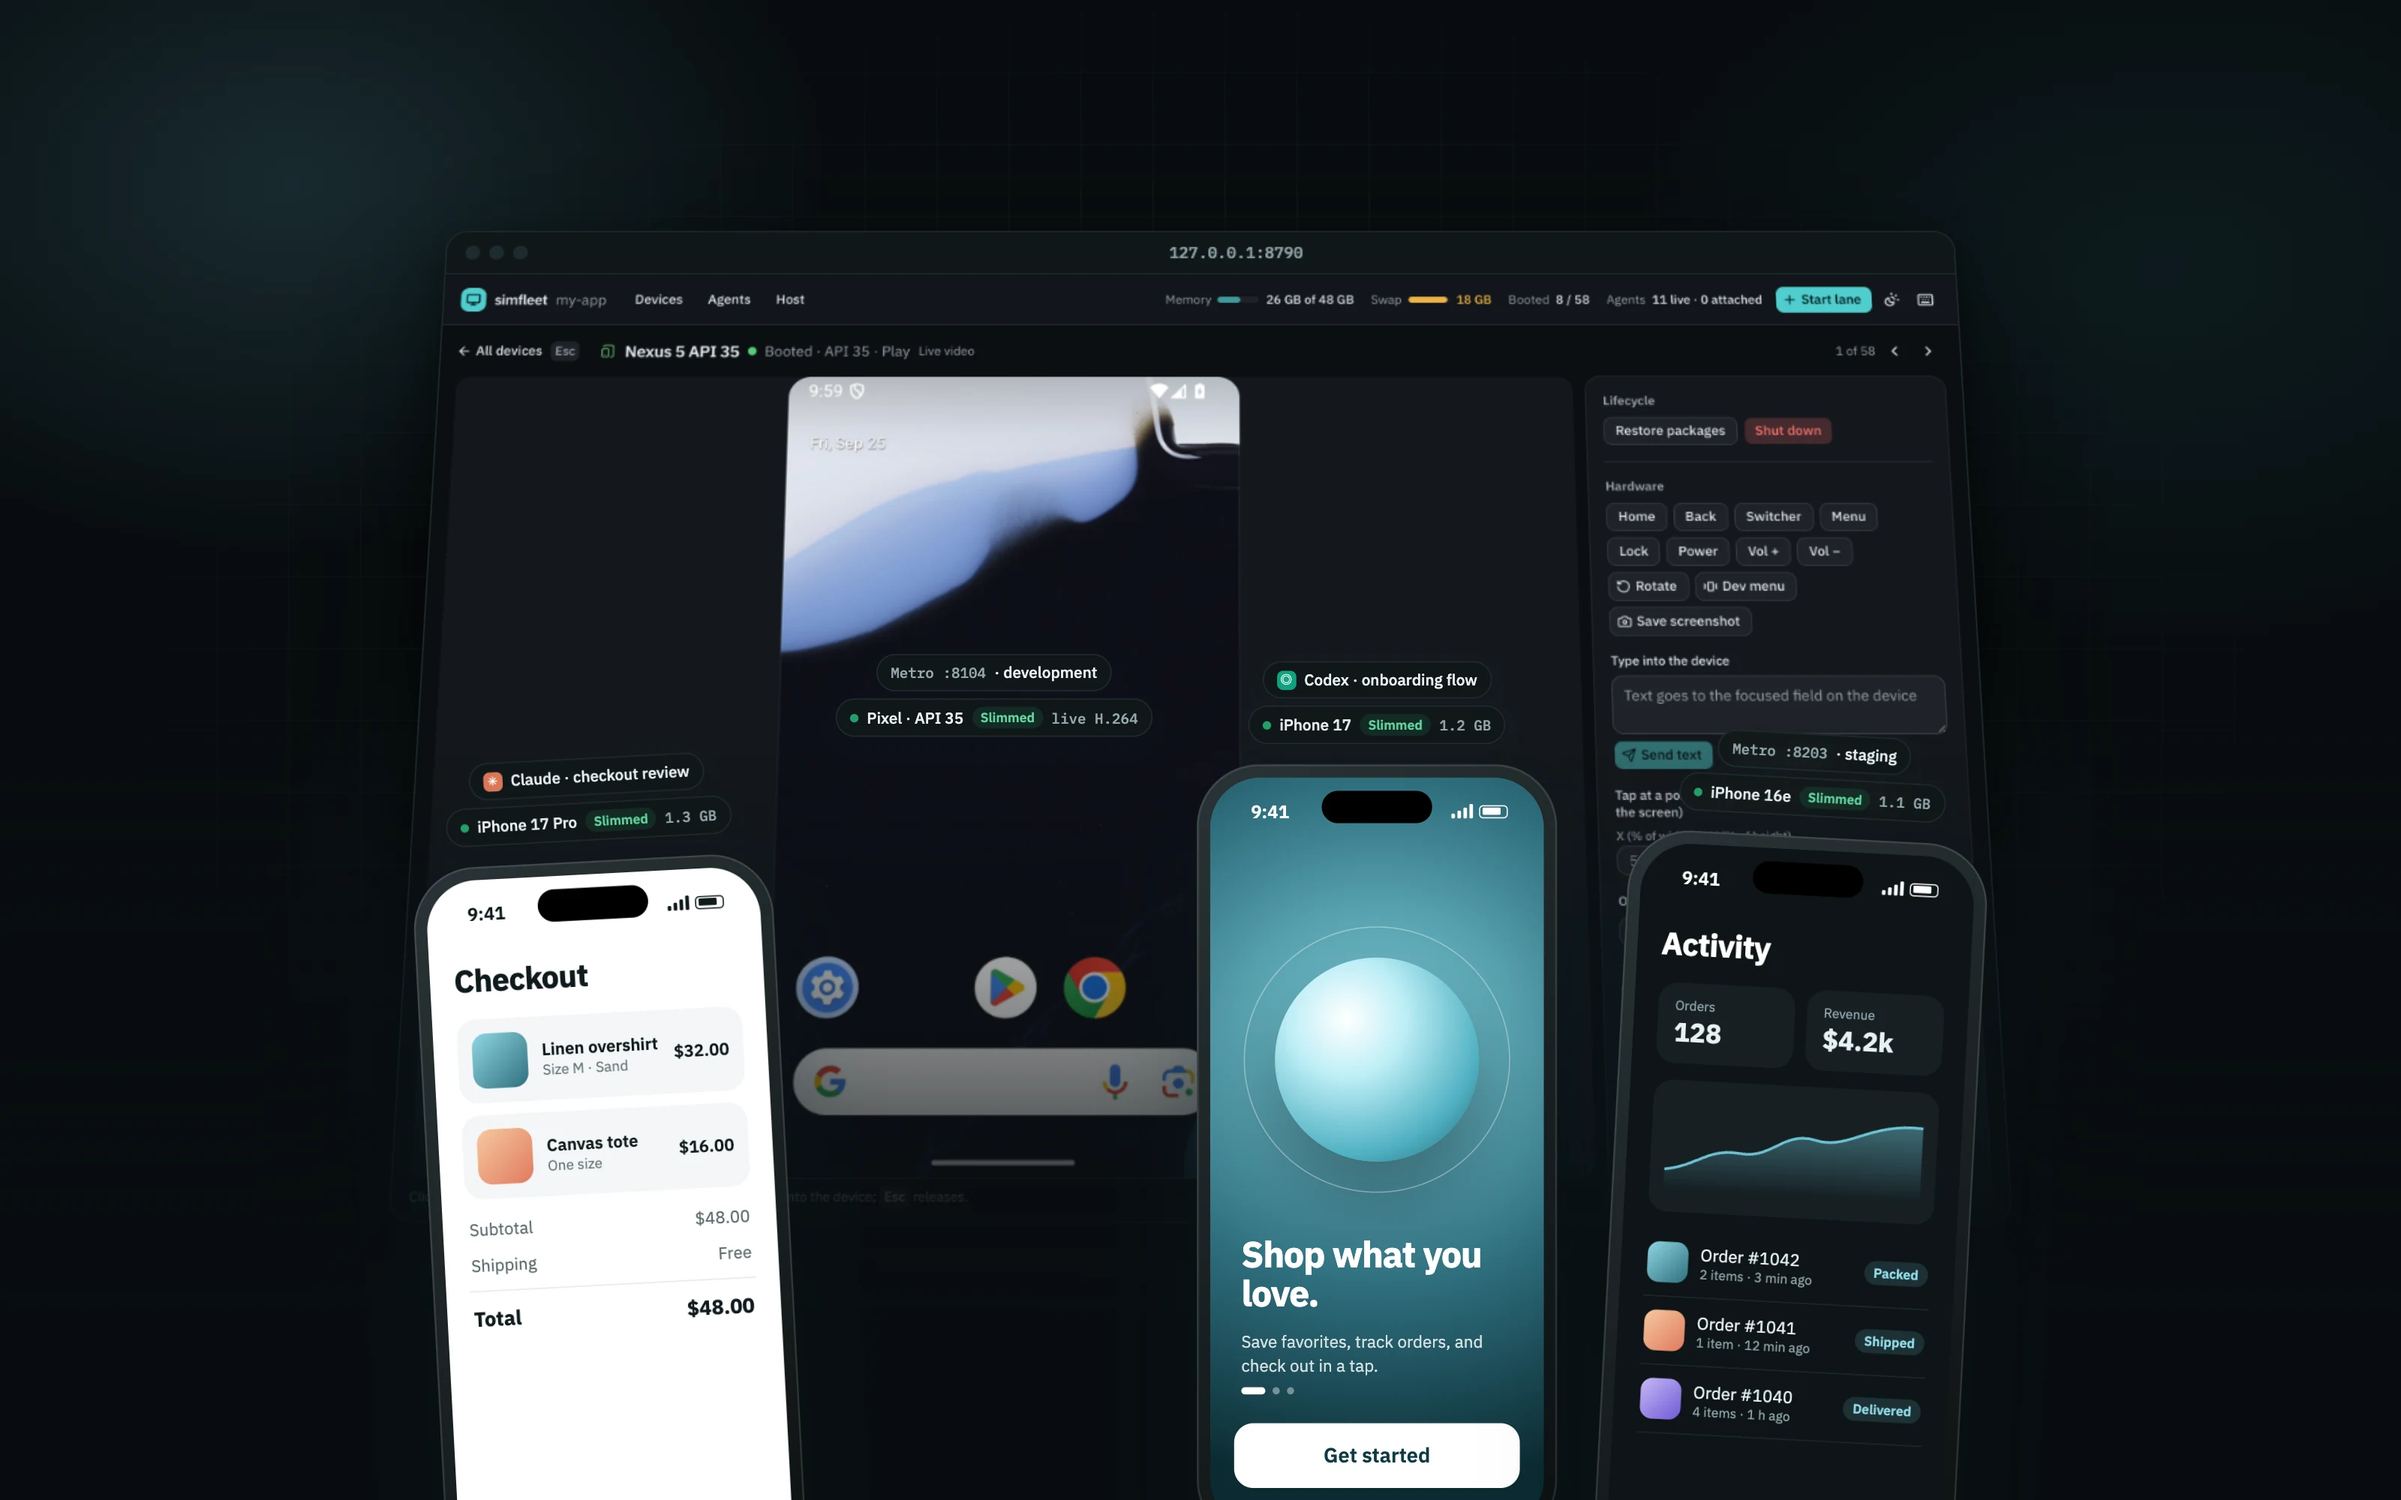
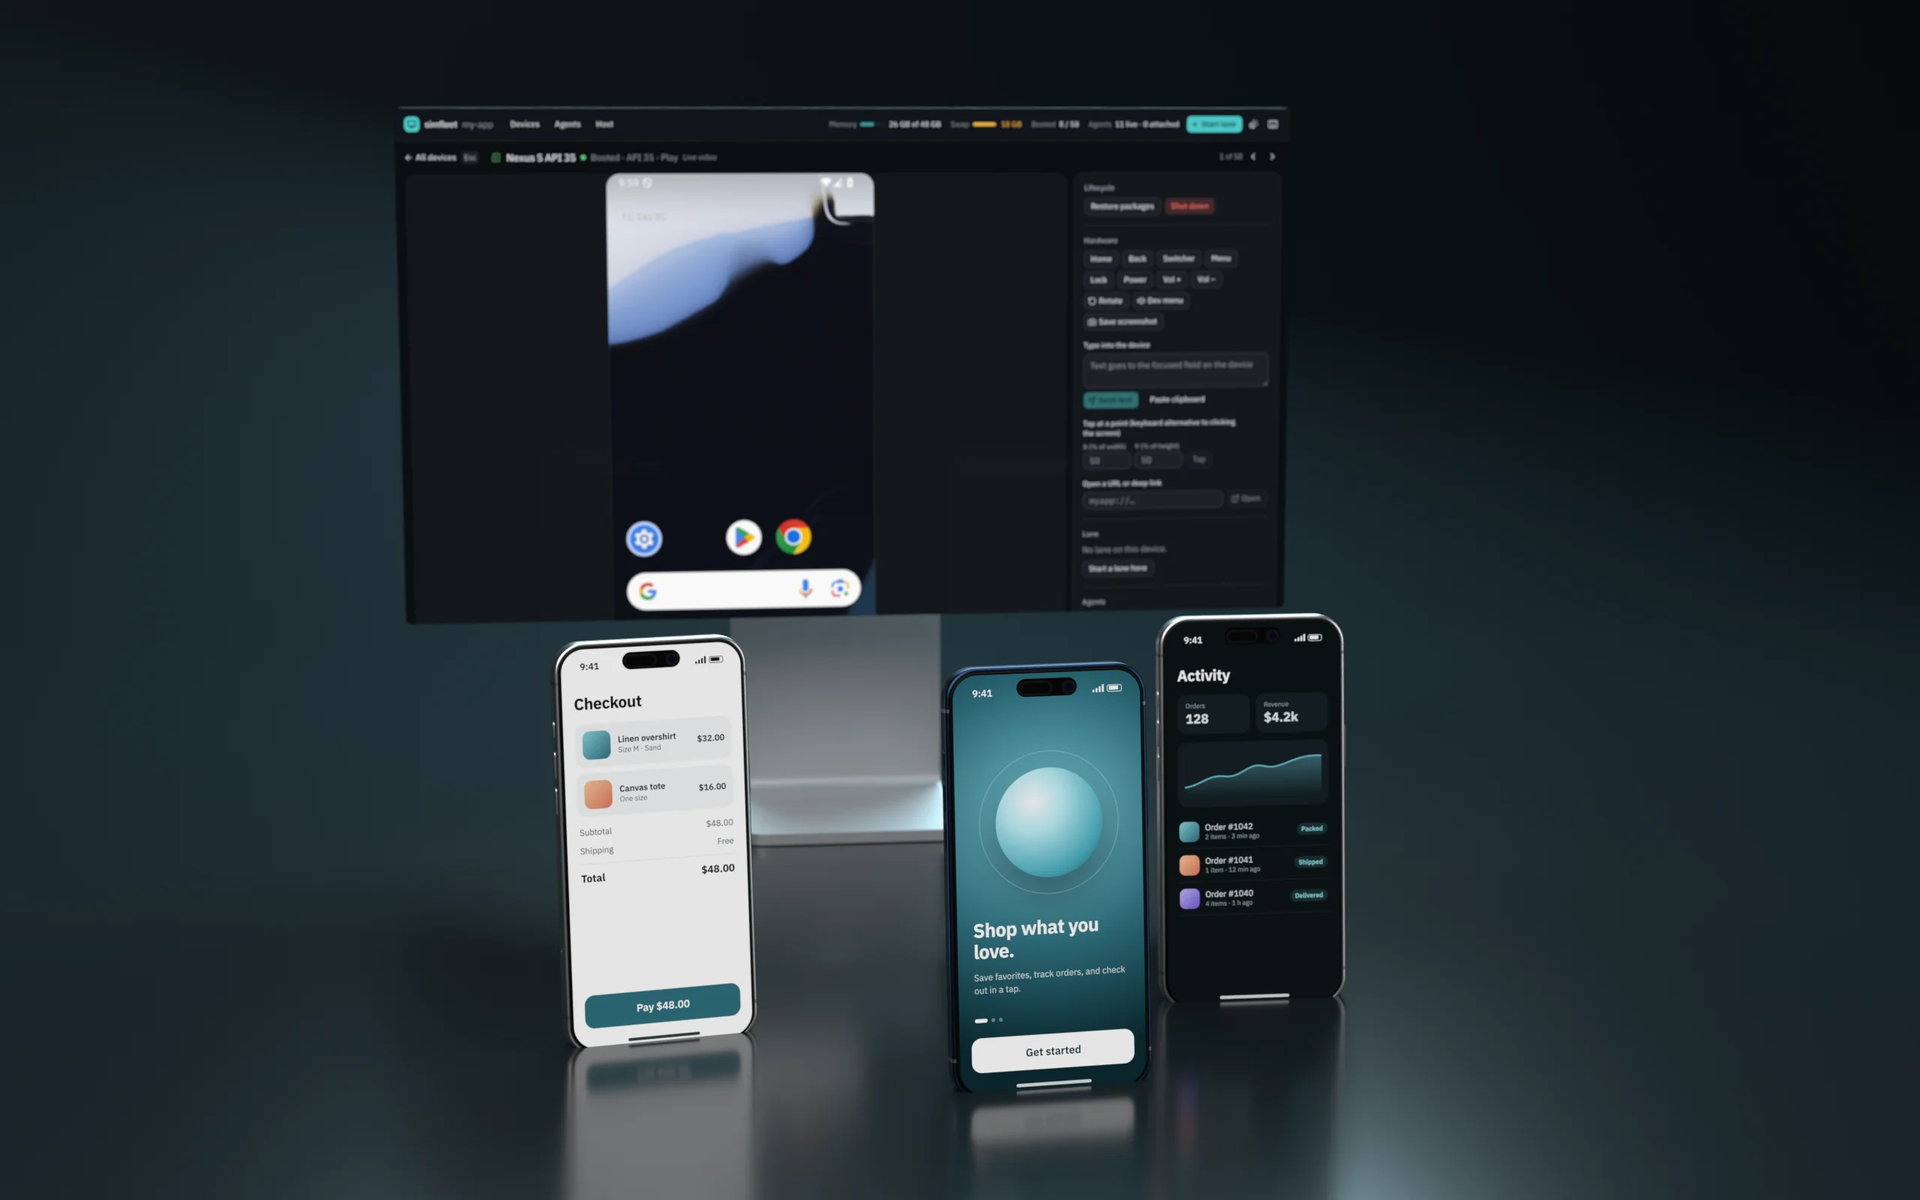
docs: 3D-rendered hero with iPhone and display models

diff --git a/docs/app/page.tsx b/docs/app/page.tsx
@@ -85,17 +85,17 @@ export default function Home() {
           <div className="overflow-hidden rounded-2xl border border-border/60">
             <Image
               src={withBasePath('/images/hero.webp')}
-              alt="The simfleet dashboard with a live Android emulator, and iPhone simulators each showing its slim status, Metro port, and the agent driving it"
-              width={3200}
-              height={2000}
+              alt="Three iPhones running a demo app in front of a display showing the simfleet dashboard streaming a live Android emulator"
+              width={2560}
+              height={1600}
               priority
               className="w-full h-auto dark:hidden"
             />
             <Image
               src={withBasePath('/images/hero-dark.webp')}
-              alt="The simfleet dashboard with a live Android emulator, and iPhone simulators each showing its slim status, Metro port, and the agent driving it"
-              width={3200}
-              height={2000}
+              alt="Three iPhones running a demo app in front of a display showing the simfleet dashboard streaming a live Android emulator"
+              width={2560}
+              height={1600}
               className="w-full h-auto hidden dark:block"
             />
           </div>

diff --git a/README.md b/README.md
@@ -19,7 +19,7 @@
   <a href="https://entropyconquers.github.io/simfleet/docs/api-reference/">API reference</a>
 </p>
 
-<p align="center"><img src="docs/public/images/hero.webp" alt="simfleet: a live dashboard with iPhone simulators and an Android emulator, each slim, on its own Metro port, and attributed to the agent driving it" width="900"></p>
+<p align="center"><img src="docs/public/images/hero.webp" alt="Three iPhones running a demo app in front of a display showing the simfleet dashboard streaming a live Android emulator" width="900"></p>
 
 ---
 
